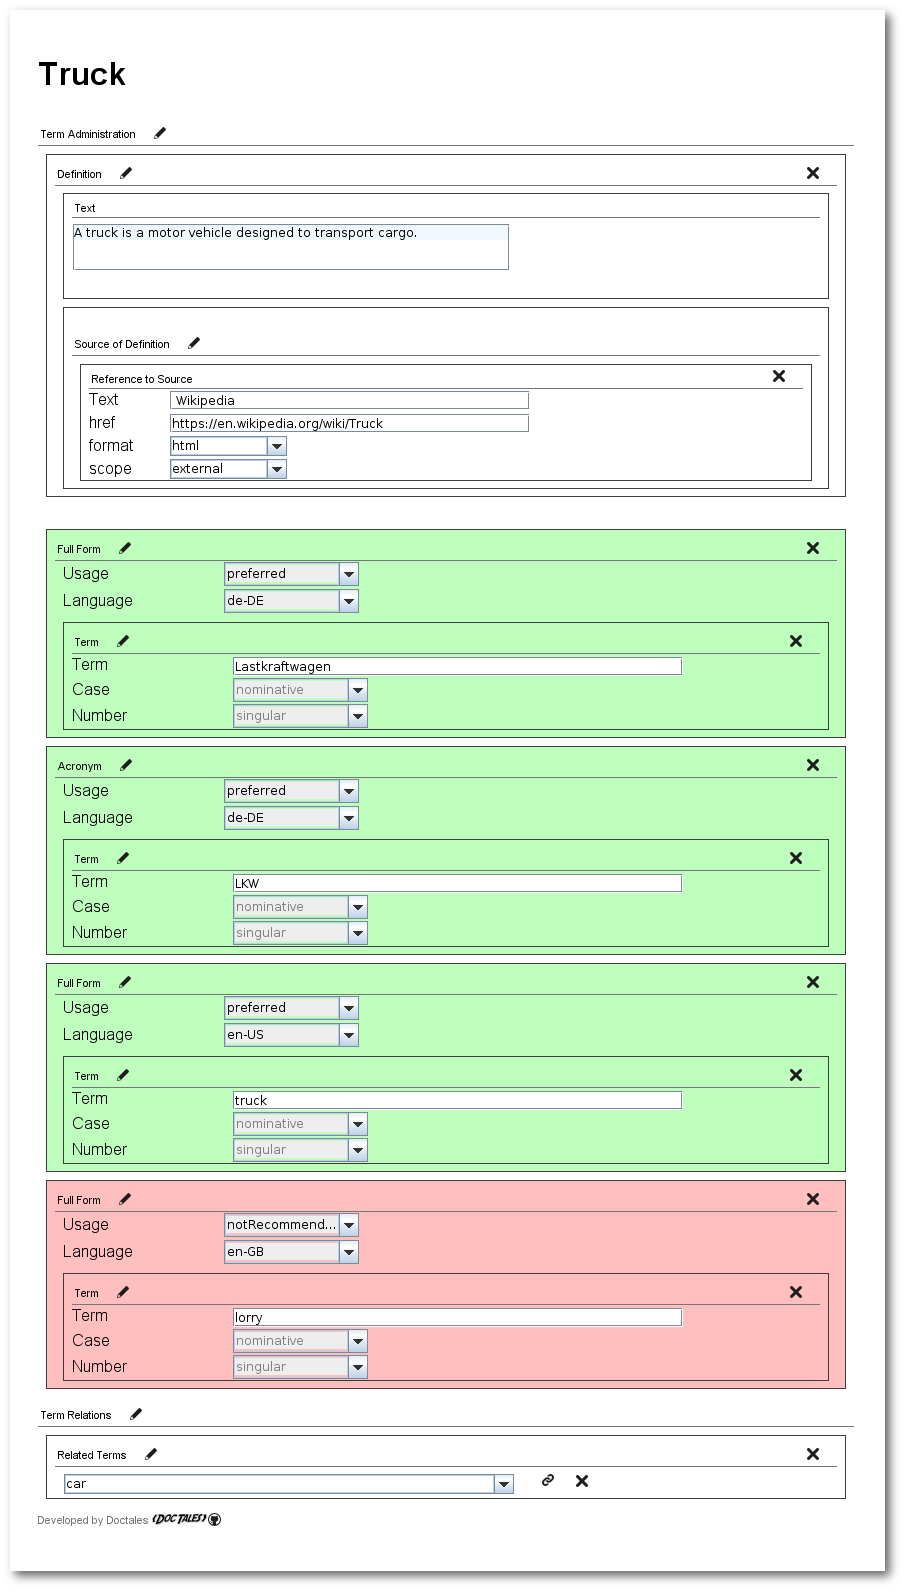
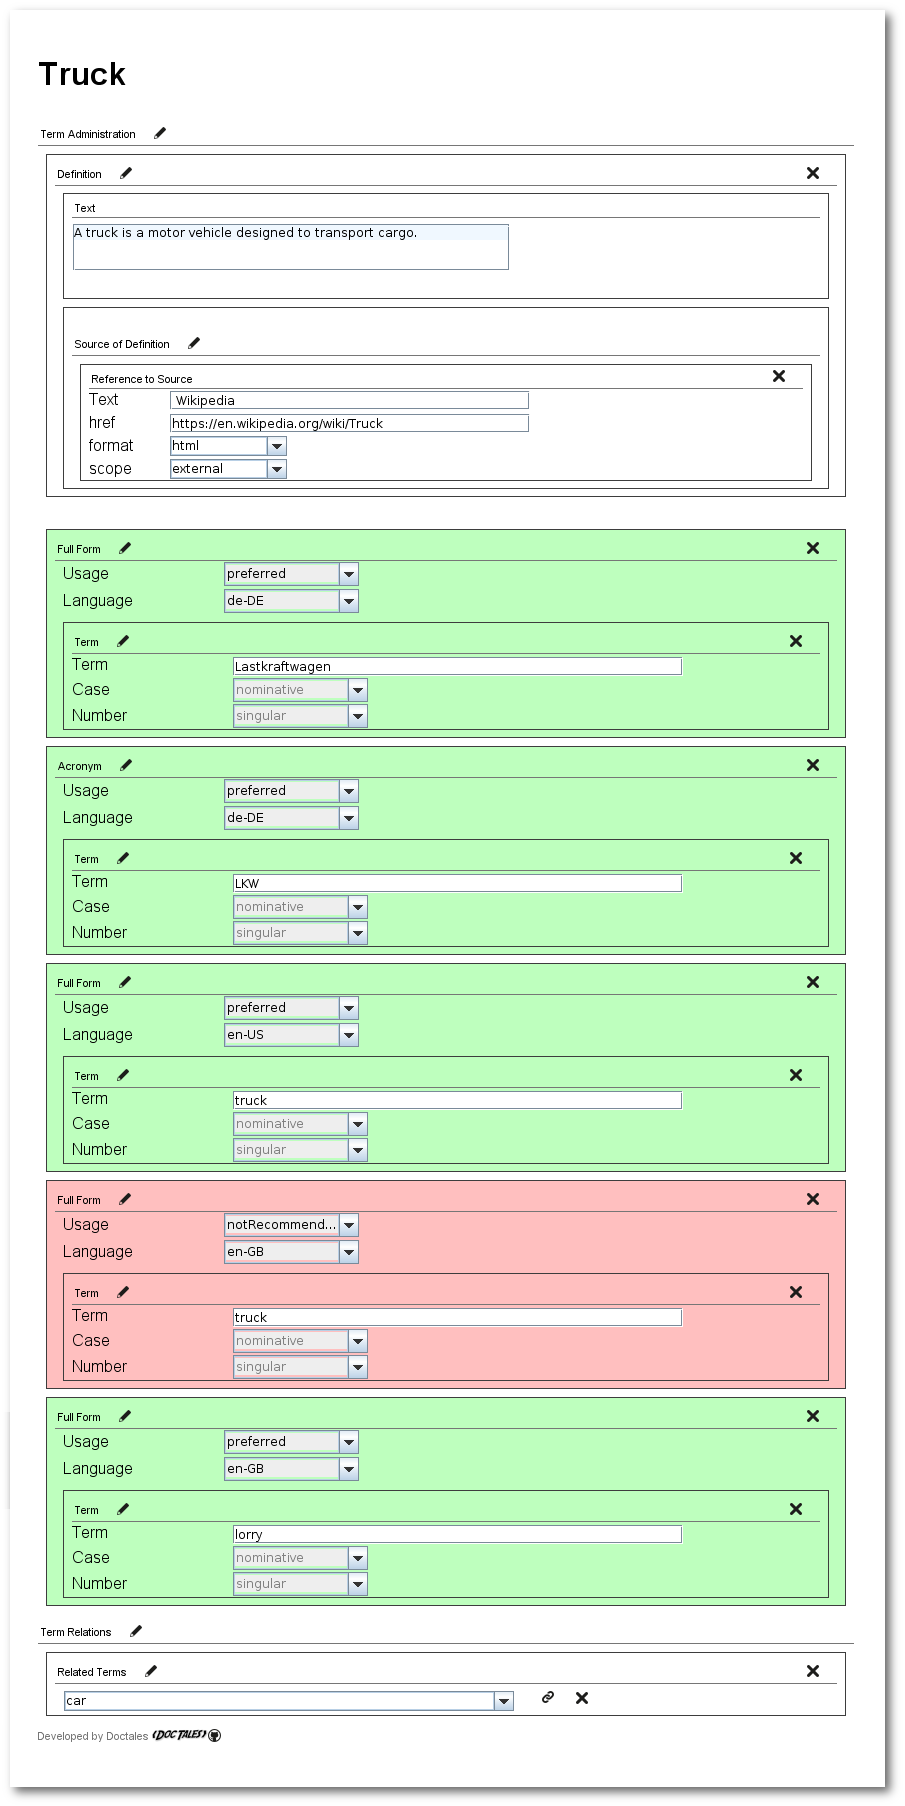
Update sample

diff --git a/README.md b/README.md
@@ -73,8 +73,8 @@ The following code snippet shows the sample file `truck.dita`.
   <definition>
     <definitionText>A truck is a motor vehicle designed to transport cargo.</definitionText>
     <definitionSource>
-      <sourceReference href="https://en.wikipedia.org/wiki/Truck"
-                       format="html"
+      <sourceReference href="https://en.wikipedia.org/wiki/Truck" 
+                       format="html" 
                        scope="external">
         Wikipedia
       </sourceReference>
@@ -90,7 +90,10 @@ The following code snippet shows the sample file `truck.dita`.
     <fullForm usage="preferred" language="en-US">
       <termVariant>truck</termVariant>
     </fullForm>
-    <fullForm usage="notRecommended" language="en-GB">
+    <fullForm language="en-GB" usage="notRecommended">
+      <termVariant>truck</termVariant>
+    </fullForm>
+    <fullForm usage="preferred" language="en-GB">
       <termVariant>lorry</termVariant>
     </fullForm>
   </termBody>
